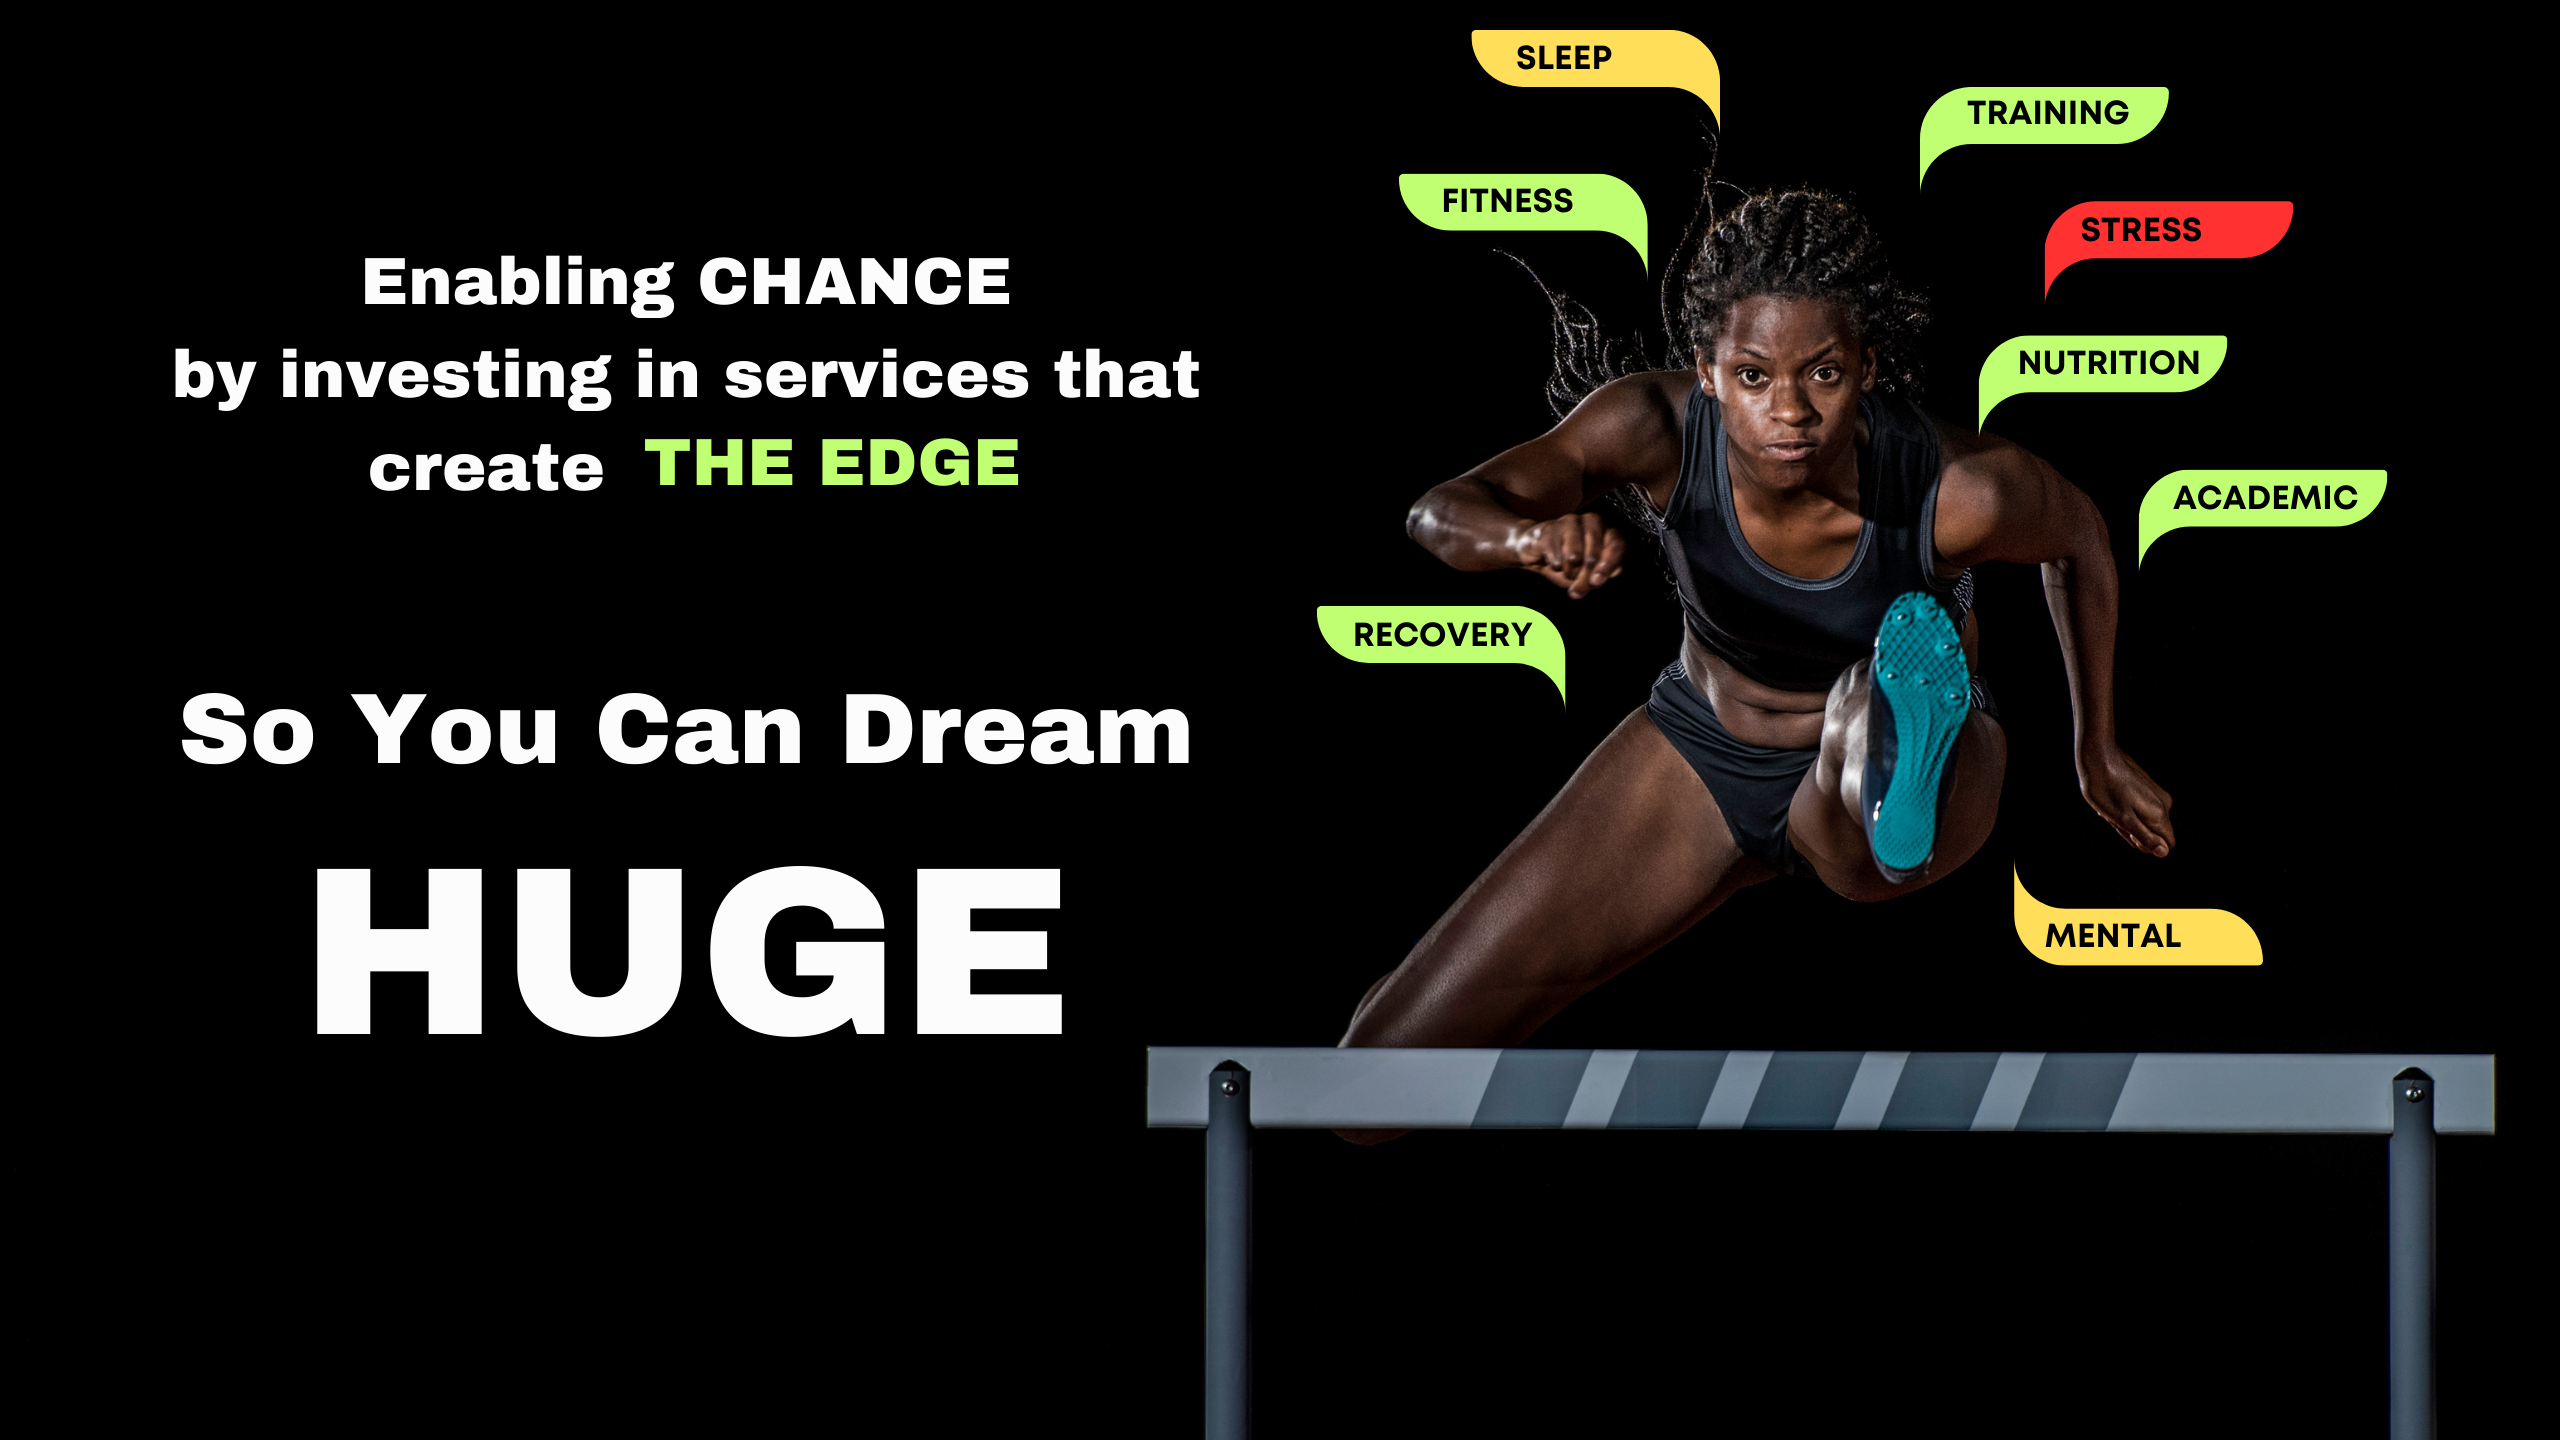
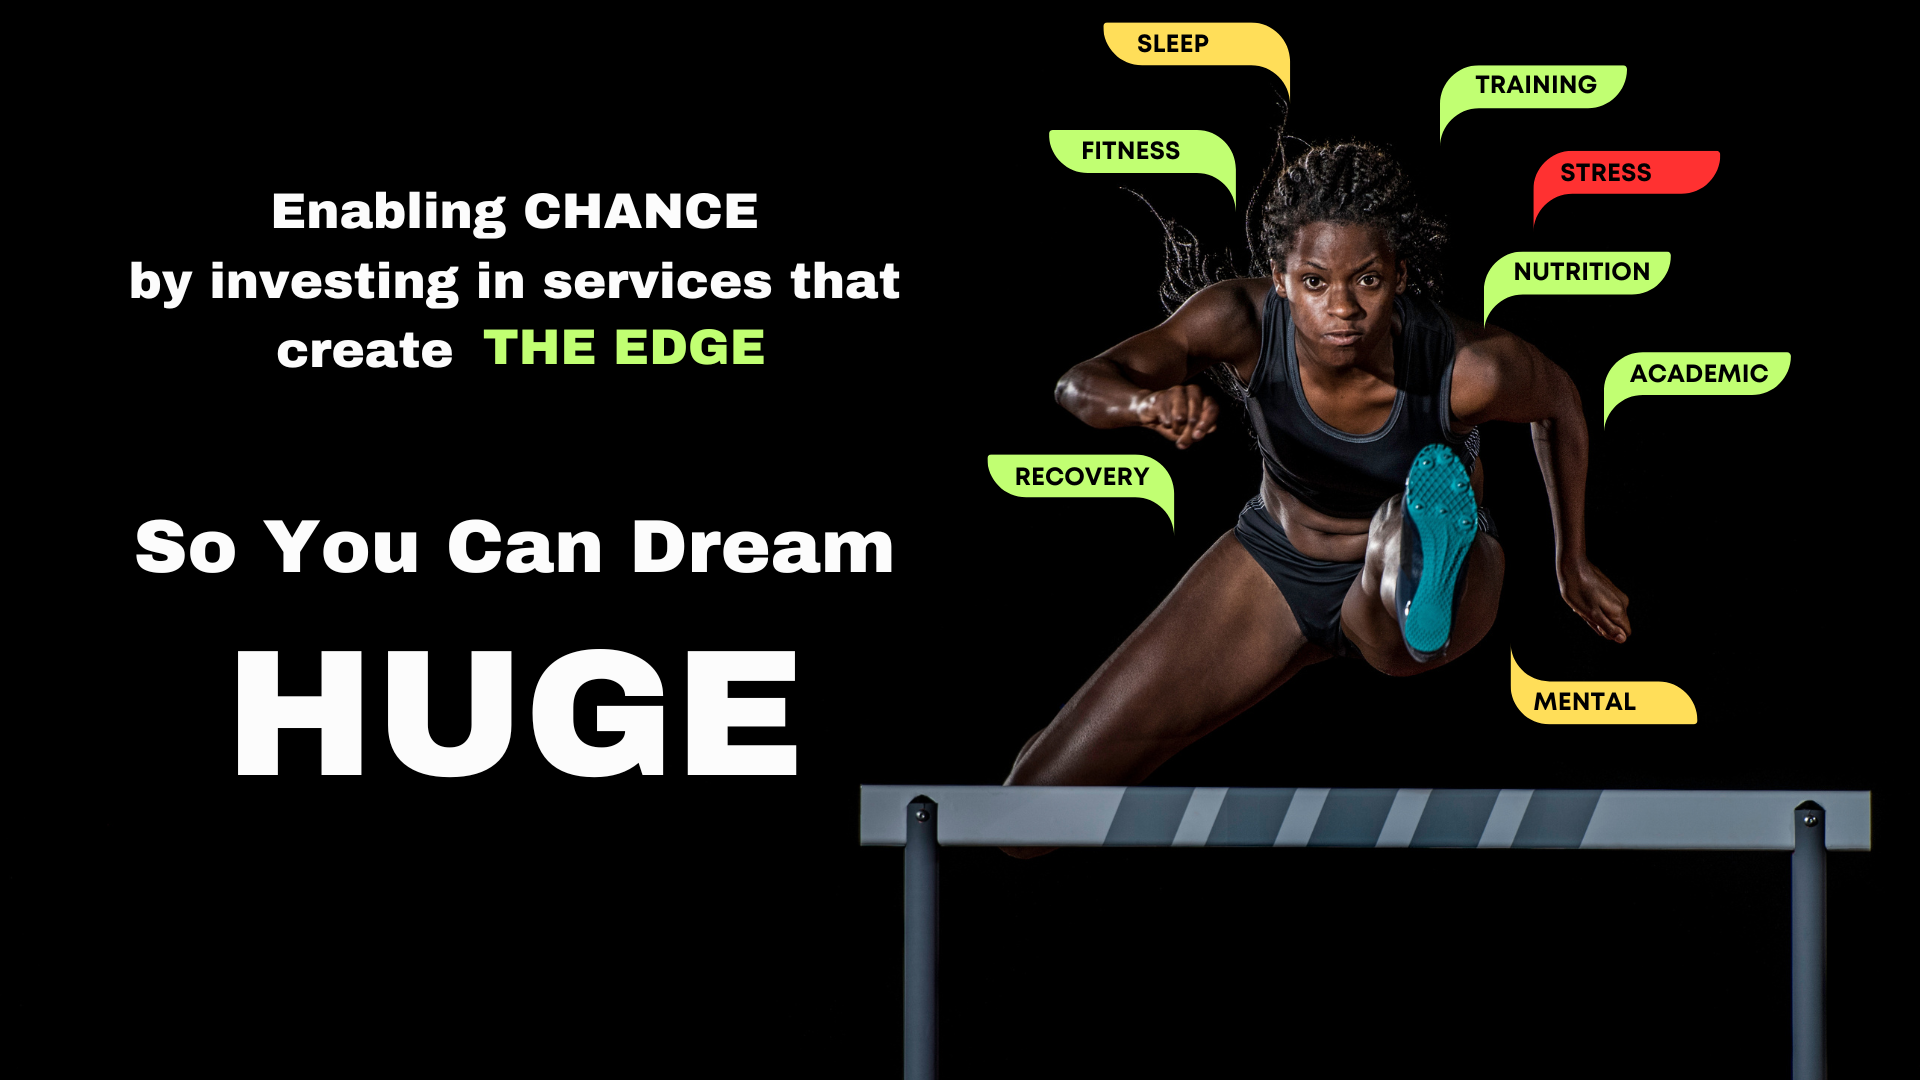
hero

diff --git a/index.html b/index.html
@@ -61,10 +61,6 @@
             <!-- Blurred Stadium Background Image -->
             <div class="absolute inset-0 hero-bg"></div>
             
-            <!-- Gradient Overlay -->
-            <div class="absolute inset-0 bg-gradient-to-b from-black/70 via-black/50 to-black"></div>
-        </div>
-
         !-- Hero Content (Empty - Image Only) -->
         <div class="relative z-10"></div>
 

diff --git a/styles.css b/styles.css
@@ -147,7 +147,7 @@ h2.font-black {
     background-image: url('/images/chancelete-hero.png');
     background-size: contain;
     background-position: center;
-    filter: brightness(0.7);
+    filter: none;
     transform: scale(1.1);
 }
 
